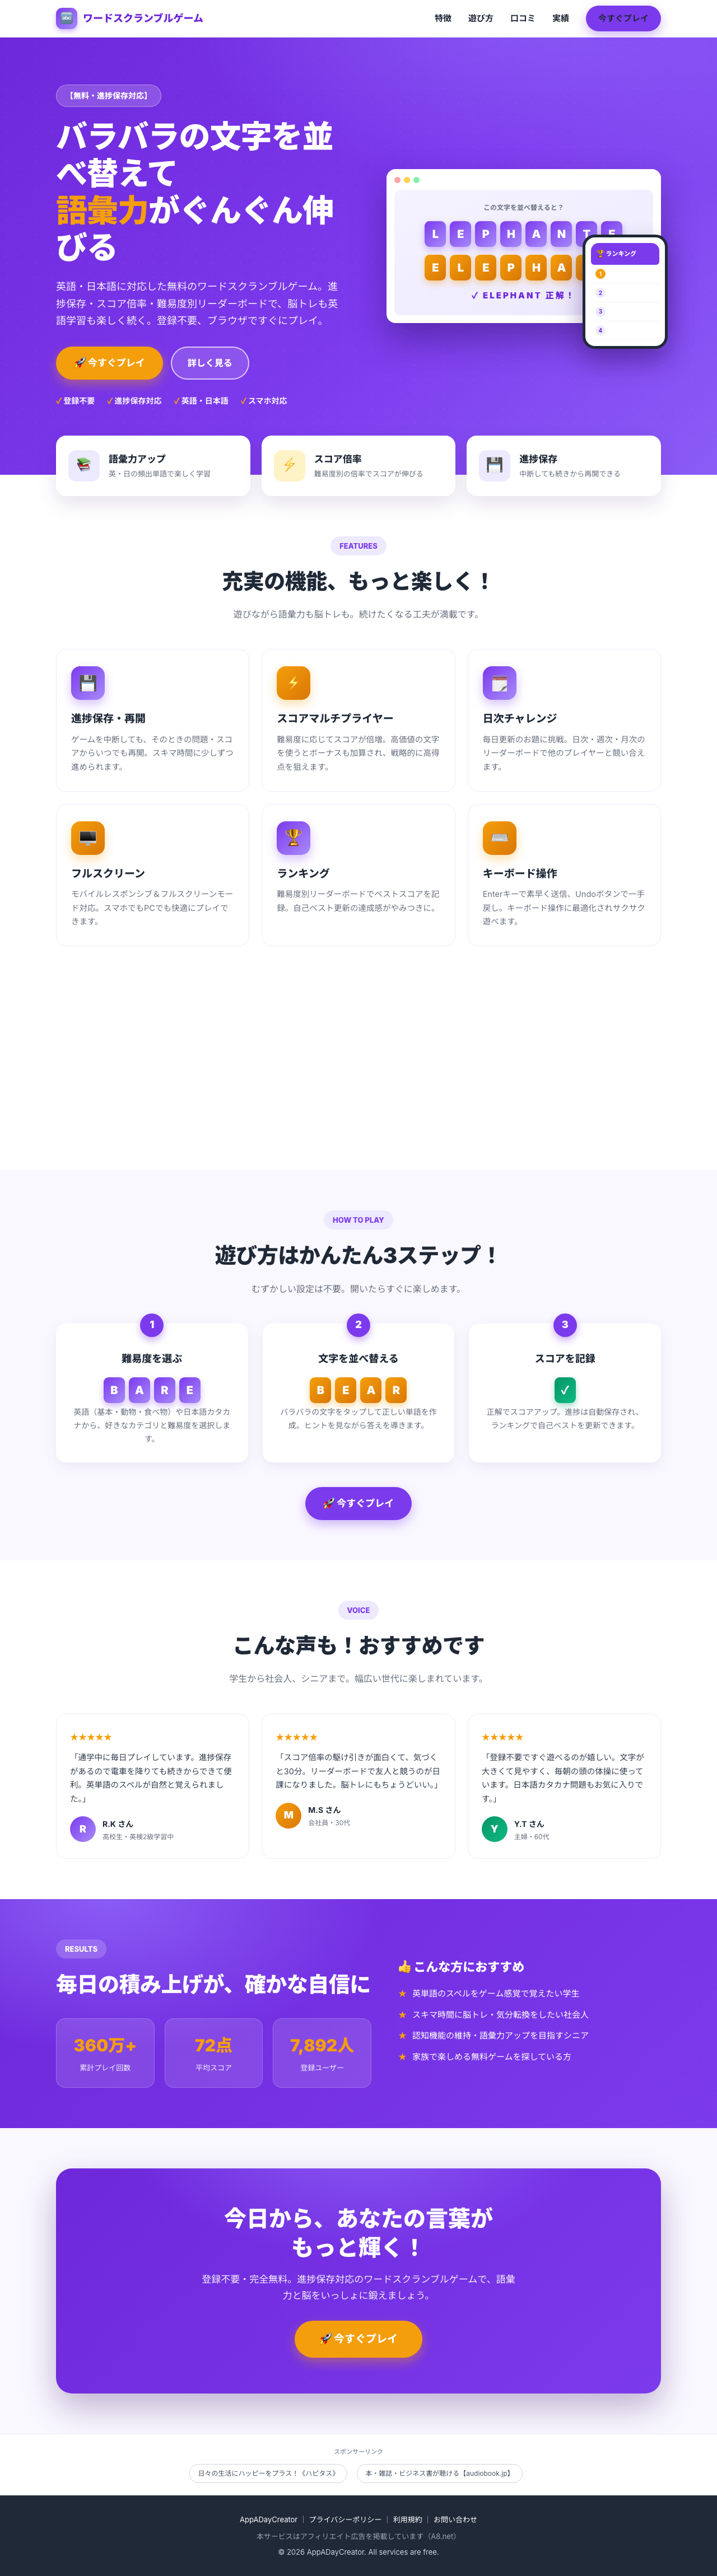
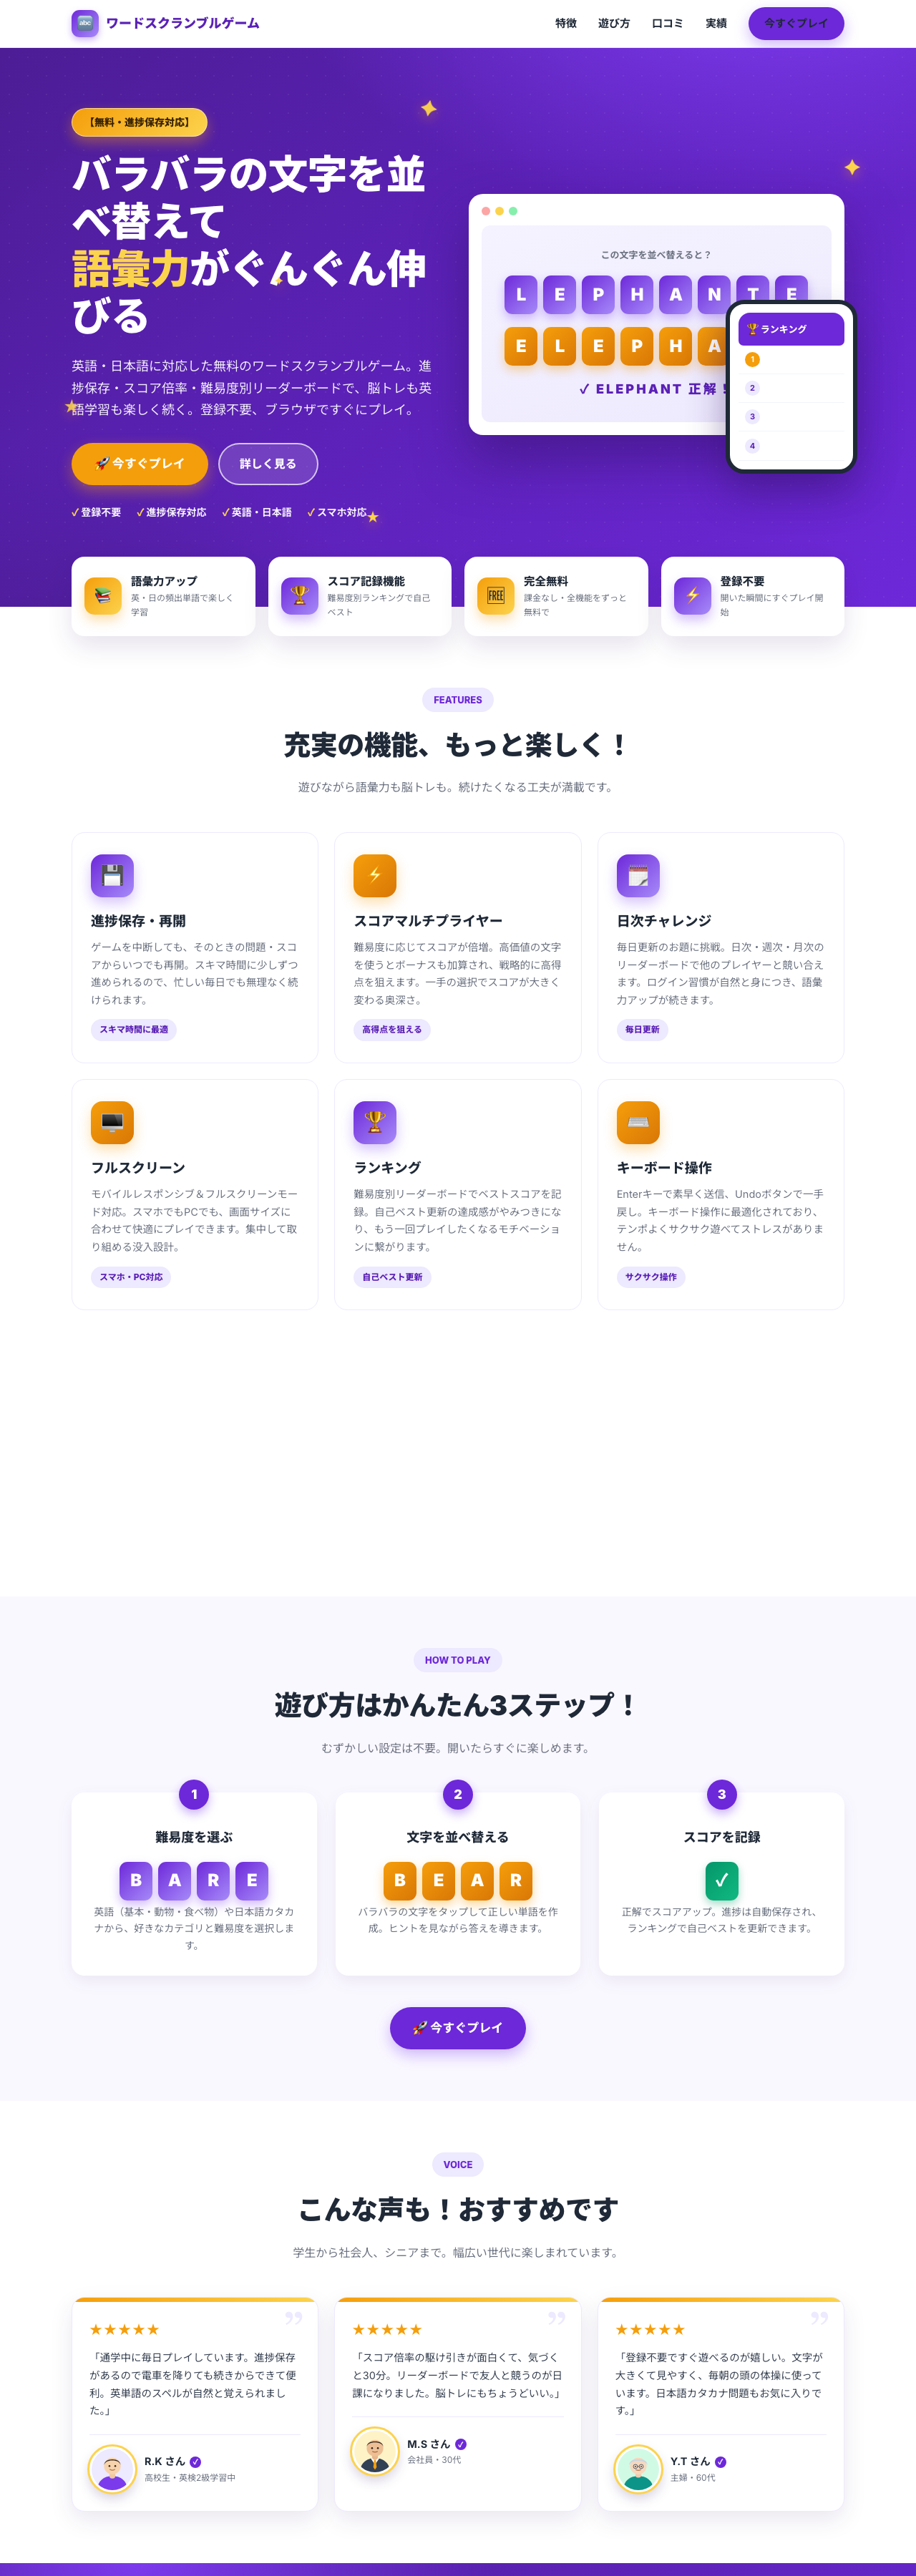
Refine: step7 compare-and-fix vs ChatGPT mockup

diff --git a/lp/index.html b/lp/index.html
@@ -34,8 +34,8 @@ j=d.createElement(s),dl=l!="dataLayer"?"&l="+l:"";j.async=true;j.src=
     <script async src="https://pagead2.googlesyndication.com/pagead/js/adsbygoogle.js?client=ca-pub-8427583028015858" crossorigin="anonymous"></script>
     <style>
       :root{
-        --primary:#7C3AED; --primary-d:#6D28D9; --primary-l:#A78BFA;
-        --accent:#F59E0B; --accent-d:#D97706;
+        --primary:#6D28D9; --primary-d:#5B21B6; --primary-l:#A78BFA;
+        --accent:#F59E0B; --accent-d:#D97706; --accent-bright:#FCD34D;
         --ink:#1f2937; --muted:#6b7280; --bg:#faf8ff; --line:#ede9fe;
       }
       *{margin:0;padding:0;box-sizing:border-box;}
@@ -67,16 +67,26 @@ j=d.createElement(s),dl=l!="dataLayer"?"&l="+l:"";j.async=true;j.src=
       @media(max-width:860px){.nav-links a:not(.btn){display:none;}}
 
       /* ── Hero ── */
-      .hero{position:relative;overflow:hidden;background:radial-gradient(1200px 600px at 80% -10%,#8b5cf6 0%,transparent 60%),linear-gradient(135deg,#6D28D9 0%,#7C3AED 55%,#8b5cf6 100%);color:#fff;padding:84px 0 120px;}
+      .hero{position:relative;overflow:hidden;background:radial-gradient(1100px 560px at 82% -12%,#7c3aed 0%,transparent 58%),radial-gradient(800px 500px at 5% 110%,#4c1d95 0%,transparent 60%),linear-gradient(135deg,#4c1d95 0%,#5B21B6 45%,#6D28D9 100%);color:#fff;padding:84px 0 120px;}
       .hero::before{content:"";position:absolute;inset:0;background-image:radial-gradient(rgba(255,255,255,.10) 1.5px,transparent 1.5px);background-size:26px 26px;opacity:.6;}
       .hero .wrap{position:relative;display:grid;grid-template-columns:1fr 1.02fr;gap:40px;align-items:center;}
-      .hero-badge{display:inline-block;background:rgba(255,255,255,.18);border:1px solid rgba(255,255,255,.35);font-weight:800;font-size:14px;padding:7px 16px;border-radius:999px;margin-bottom:20px;}
+      .hero-badge{display:inline-flex;align-items:center;gap:7px;background:linear-gradient(135deg,var(--accent),var(--accent-bright));color:#3b2400;border:1px solid rgba(255,255,255,.5);font-weight:900;font-size:14px;padding:7px 17px;border-radius:999px;margin-bottom:20px;box-shadow:0 8px 18px rgba(245,158,11,.4);}
       .hero h1{font-size:clamp(34px,5.2vw,56px);font-weight:900;line-height:1.18;letter-spacing:-1px;}
-      .hero h1 .hl{color:var(--accent);}
+      .hero h1 .hl{position:relative;color:var(--accent-bright);white-space:nowrap;}
+      .hero h1 .hl::after{content:"";position:absolute;left:-2px;right:-2px;bottom:4px;height:30%;background:rgba(252,211,77,.28);border-radius:4px;z-index:-1;}
+      /* scattered yellow sparkle decorations */
+      .spark{position:absolute;color:var(--accent-bright);filter:drop-shadow(0 4px 8px rgba(245,158,11,.5));pointer-events:none;z-index:1;animation:twinkle 3.5s ease-in-out infinite;}
+      .spark.s1{top:8%;left:46%;font-size:26px;animation-delay:0s;}
+      .spark.s2{top:62%;left:7%;font-size:20px;animation-delay:.6s;}
+      .spark.s3{top:18%;right:6%;font-size:30px;animation-delay:1.2s;}
+      .spark.s4{bottom:14%;left:40%;font-size:18px;animation-delay:1.8s;}
+      .spark.s5{top:40%;left:30%;font-size:15px;animation-delay:2.4s;}
+      @keyframes twinkle{0%,100%{transform:scale(1) rotate(0);opacity:.85;}50%{transform:scale(1.25) rotate(12deg);opacity:1;}}
+      @media(max-width:860px){.spark.s1,.spark.s5{display:none;}}
       .hero .lead{margin:22px 0 30px;font-size:18px;color:rgba(255,255,255,.92);max-width:520px;}
       .hero-cta{display:flex;gap:14px;flex-wrap:wrap;}
       .hero-ticks{display:flex;gap:22px;flex-wrap:wrap;margin-top:26px;font-size:14px;font-weight:600;color:rgba(255,255,255,.95);}
-      .hero-ticks span::before{content:"✓ ";color:var(--accent);font-weight:900;}
+      .hero-ticks span::before{content:"✓ ";color:var(--accent-bright);font-weight:900;}
 
       /* device mock */
       .mock{position:relative;}
@@ -103,7 +113,8 @@ j=d.createElement(s),dl=l!="dataLayer"?"&l="+l:"";j.async=true;j.src=
       .strip{margin-top:-70px;position:relative;z-index:5;}
       .strip .grid{display:grid;grid-template-columns:repeat(4,1fr);gap:18px;}
       .stat-card{background:#fff;border-radius:18px;padding:22px 18px;box-shadow:0 14px 36px rgba(49,16,99,.12);display:flex;align-items:center;gap:13px;}
-      .stat-card .ic{width:52px;height:52px;border-radius:14px;background:#fef3c7;display:flex;align-items:center;justify-content:center;font-size:26px;flex-shrink:0;box-shadow:0 6px 14px rgba(245,158,11,.18);}
+      .stat-card .ic{width:52px;height:52px;border-radius:14px;background:linear-gradient(135deg,var(--accent),var(--accent-bright));display:flex;align-items:center;justify-content:center;font-size:26px;flex-shrink:0;box-shadow:0 8px 16px rgba(245,158,11,.32);}
+      .stat-card:nth-child(2) .ic,.stat-card:nth-child(4) .ic{background:linear-gradient(135deg,var(--primary),var(--primary-l));box-shadow:0 8px 16px rgba(124,58,237,.32);}
       .stat-card h3{font-size:15.5px;font-weight:800;}
       .stat-card p{font-size:12px;color:var(--muted);}
       @media(max-width:920px){.strip .grid{grid-template-columns:repeat(2,1fr);}}
@@ -132,11 +143,14 @@ j=d.createElement(s),dl=l!="dataLayer"?"&l="+l:"";j.async=true;j.src=
 
       /* ── Testimonials ── */
       .tg{display:grid;grid-template-columns:repeat(3,1fr);gap:22px;}
-      .tcard{background:#fff;border:1px solid var(--line);border-radius:18px;padding:28px 24px;box-shadow:0 8px 26px rgba(49,16,99,.06);}
-      .tcard .stars{color:var(--accent);font-size:16px;margin-bottom:12px;letter-spacing:1px;}
-      .tcard .txt{font-size:14.5px;color:#374151;margin-bottom:20px;}
+      .tcard{position:relative;background:#fff;border:1px solid var(--line);border-radius:18px;padding:30px 24px 26px;box-shadow:0 12px 32px rgba(49,16,99,.1);overflow:hidden;transition:transform .18s,box-shadow .18s;}
+      .tcard::before{content:"";position:absolute;top:0;left:0;right:0;height:6px;background:linear-gradient(90deg,var(--accent),var(--accent-bright));}
+      .tcard:hover{transform:translateY(-5px);box-shadow:0 22px 46px rgba(49,16,99,.16);}
+      .tcard .qmark{position:absolute;top:14px;right:20px;font-size:54px;line-height:1;font-weight:900;color:var(--line);font-family:Georgia,serif;}
+      .tcard .stars{color:var(--accent);font-size:18px;margin-bottom:12px;letter-spacing:2px;}
+      .tcard .txt{font-size:14.5px;color:#374151;margin-bottom:20px;position:relative;}
       .tcard .who{display:flex;align-items:center;gap:13px;border-top:1px solid var(--line);padding-top:16px;}
-      .avatar{width:58px;height:58px;border-radius:50%;overflow:hidden;flex-shrink:0;box-shadow:0 6px 16px rgba(49,16,99,.18);border:3px solid #fff;outline:2px solid var(--line);}
+      .avatar{width:64px;height:64px;border-radius:50%;overflow:hidden;flex-shrink:0;box-shadow:0 8px 18px rgba(49,16,99,.22);border:3px solid #fff;outline:3px solid var(--accent-bright);}
       .avatar svg{width:100%;height:100%;display:block;}
       .tcard .who b{font-size:14.5px;display:flex;align-items:center;gap:6px;}
       .tcard .who b::after{content:"✓";font-size:10px;font-weight:900;color:#fff;background:var(--primary);width:16px;height:16px;border-radius:50%;display:inline-flex;align-items:center;justify-content:center;}
@@ -144,11 +158,11 @@ j=d.createElement(s),dl=l!="dataLayer"?"&l="+l:"";j.async=true;j.src=
       @media(max-width:860px){.tg{grid-template-columns:1fr;}}
 
       /* ── Numbers band ── */
-      .numbers{background:radial-gradient(900px 500px at 15% 0%,#8b5cf6 0%,transparent 55%),linear-gradient(135deg,#6D28D9,#7C3AED);color:#fff;}
+      .numbers{background:radial-gradient(900px 500px at 15% 0%,#7c3aed 0%,transparent 55%),linear-gradient(135deg,#4c1d95,#6D28D9);color:#fff;}
       .numbers .wrap{display:grid;grid-template-columns:1.2fr 1fr;gap:48px;align-items:center;}
       .num-grid{display:grid;grid-template-columns:repeat(3,1fr);gap:18px;}
       .num{background:linear-gradient(160deg,rgba(255,255,255,.18),rgba(255,255,255,.08));border:1px solid rgba(255,255,255,.28);border-radius:18px;padding:30px 16px;text-align:center;box-shadow:0 12px 30px rgba(20,4,55,.25);}
-      .num b{display:block;font-size:clamp(38px,5vw,52px);font-weight:900;color:var(--accent);line-height:1;letter-spacing:-1px;}
+      .num b{display:block;font-size:clamp(38px,5vw,52px);font-weight:900;color:var(--accent-bright);line-height:1;letter-spacing:-1px;text-shadow:0 4px 14px rgba(245,158,11,.35);}
       .num span{font-size:14px;font-weight:700;color:rgba(255,255,255,.92);margin-top:8px;display:block;}
       .reco h3{font-size:22px;font-weight:900;margin-bottom:16px;}
       .reco li{list-style:none;display:flex;gap:10px;align-items:flex-start;margin-bottom:12px;font-size:15px;}
@@ -157,7 +171,10 @@ j=d.createElement(s),dl=l!="dataLayer"?"&l="+l:"";j.async=true;j.src=
 
       /* ── Final CTA ── */
       .final{text-align:center;background:var(--bg);}
-      .final .box{background:radial-gradient(700px 400px at 50% -20%,#8b5cf6 0%,transparent 60%),linear-gradient(135deg,#6D28D9,#7C3AED);color:#fff;border-radius:28px;padding:64px 28px;box-shadow:0 24px 60px rgba(49,16,99,.3);}
+      .final .box{position:relative;overflow:hidden;background:radial-gradient(700px 400px at 50% -20%,#7c3aed 0%,transparent 60%),linear-gradient(135deg,#4c1d95,#6D28D9);color:#fff;border-radius:28px;padding:64px 28px;box-shadow:0 24px 60px rgba(49,16,99,.34);}
+      .final .box::before,.final .box::after{content:"✦";position:absolute;color:var(--accent-bright);opacity:.85;filter:drop-shadow(0 4px 8px rgba(245,158,11,.5));}
+      .final .box::before{top:24px;left:8%;font-size:26px;}
+      .final .box::after{bottom:26px;right:9%;font-size:32px;}
       .final h2{font-size:clamp(26px,4vw,40px);font-weight:900;line-height:1.3;}
       .final p{margin:16px auto 30px;font-size:17px;color:rgba(255,255,255,.92);max-width:560px;}
 
@@ -191,6 +208,7 @@ j=d.createElement(s),dl=l!="dataLayer"?"&l="+l:"";j.async=true;j.src=
 
 <!-- Hero -->
 <section class="hero">
+  <span class="spark s1">✦</span><span class="spark s2">★</span><span class="spark s3">✦</span><span class="spark s4">★</span><span class="spark s5">✦</span>
   <div class="wrap">
     <div>
       <span class="hero-badge">【無料・進捗保存対応】</span>
@@ -293,16 +311,19 @@ j=d.createElement(s),dl=l!="dataLayer"?"&l="+l:"";j.async=true;j.src=
     </div>
     <div class="tg">
       <div class="tcard">
+        <div class="qmark">”</div>
         <div class="stars">★★★★★</div>
         <p class="txt">「通学中に毎日プレイしています。進捗保存があるので電車を降りても続きからできて便利。英単語のスペルが自然と覚えられました。」</p>
         <div class="who"><div class="avatar"><svg viewBox="0 0 100 100" xmlns="http://www.w3.org/2000/svg" aria-hidden="true"><rect width="100" height="100" fill="#ede9fe"/><path d="M14 100 C14 76 32 66 50 66 C68 66 86 76 86 100 Z" fill="#7C3AED"/><rect x="43" y="54" width="14" height="18" rx="6" fill="#f1c8a0"/><circle cx="50" cy="42" r="20" fill="#f6d3ac"/><path d="M30 41 C30 24 70 24 70 41 C70 31 62 26 50 26 C38 26 30 31 30 41 Z" fill="#3b2a1d"/><circle cx="43" cy="42" r="2.2" fill="#3b2a1d"/><circle cx="57" cy="42" r="2.2" fill="#3b2a1d"/><path d="M44 50 Q50 54 56 50" stroke="#b5764a" stroke-width="2" fill="none" stroke-linecap="round"/></svg></div><div><b>R.K さん</b><span>高校生・英検2級学習中</span></div></div>
       </div>
       <div class="tcard">
+        <div class="qmark">”</div>
         <div class="stars">★★★★★</div>
         <p class="txt">「スコア倍率の駆け引きが面白くて、気づくと30分。リーダーボードで友人と競うのが日課になりました。脳トレにもちょうどいい。」</p>
         <div class="who"><div class="avatar"><svg viewBox="0 0 100 100" xmlns="http://www.w3.org/2000/svg" aria-hidden="true"><rect width="100" height="100" fill="#fef3c7"/><path d="M14 100 C14 76 32 66 50 66 C68 66 86 76 86 100 Z" fill="#334155"/><path d="M40 67 L50 82 L60 67 L54 64 L50 70 L46 64 Z" fill="#fff"/><path d="M48 70 L52 70 L54 88 L50 94 L46 88 Z" fill="#F59E0B"/><rect x="43" y="54" width="14" height="16" rx="6" fill="#e8b58a"/><circle cx="50" cy="42" r="20" fill="#edbf95"/><path d="M30 40 C30 24 70 24 70 40 C70 30 62 26 50 26 C38 26 30 30 30 40 Z" fill="#2b2118"/><circle cx="43" cy="42" r="2.2" fill="#2b2118"/><circle cx="57" cy="42" r="2.2" fill="#2b2118"/><path d="M44 50 Q50 53 56 50" stroke="#a9683f" stroke-width="2" fill="none" stroke-linecap="round"/></svg></div><div><b>M.S さん</b><span>会社員・30代</span></div></div>
       </div>
       <div class="tcard">
+        <div class="qmark">”</div>
         <div class="stars">★★★★★</div>
         <p class="txt">「登録不要ですぐ遊べるのが嬉しい。文字が大きくて見やすく、毎朝の頭の体操に使っています。日本語カタカナ問題もお気に入りです。」</p>
         <div class="who"><div class="avatar"><svg viewBox="0 0 100 100" xmlns="http://www.w3.org/2000/svg" aria-hidden="true"><rect width="100" height="100" fill="#d1fae5"/><path d="M14 100 C14 76 32 66 50 66 C68 66 86 76 86 100 Z" fill="#0d9488"/><rect x="43" y="54" width="14" height="16" rx="6" fill="#f1cdb0"/><circle cx="50" cy="42" r="20" fill="#f6d8bd"/><path d="M27 46 C24 24 76 24 73 46 C72 33 70 26 50 26 C30 26 28 33 27 46 Z" fill="#cbd5e1"/><circle cx="43" cy="43" r="5" fill="none" stroke="#475569" stroke-width="1.6"/><circle cx="57" cy="43" r="5" fill="none" stroke="#475569" stroke-width="1.6"/><path d="M48 43 H52" stroke="#475569" stroke-width="1.6"/><circle cx="43" cy="43" r="1.6" fill="#3b2a1d"/><circle cx="57" cy="43" r="1.6" fill="#3b2a1d"/><path d="M44 51 Q50 54 56 51" stroke="#b5764a" stroke-width="2" fill="none" stroke-linecap="round"/></svg></div><div><b>Y.T さん</b><span>主婦・60代</span></div></div>

diff --git a/index.html b/index.html
@@ -64,12 +64,13 @@ j=d.createElement(s),dl=l!="dataLayer"?"&l="+l:"";j.async=true;j.src=
         .top-nav .nlinks a:hover { color: #7C3AED; }
         .top-nav .nlinks .nav-cta { background: #7C3AED; color: #fff; padding: 8px 18px; border-radius: 999px; font-weight: 700; box-shadow: 0 4px 12px rgba(124,58,237,.3); }
         @media (max-width: 640px){ .top-nav .nlinks a:not(.nav-cta){ display:none; } }
-        .site-header { position: relative; overflow: hidden; background: radial-gradient(900px 400px at 85% -20%,#8b5cf6 0%,transparent 60%), linear-gradient(135deg,#6D28D9 0%,#7C3AED 60%,#8b5cf6 100%); color: white; padding: 56px 20px; text-align: center; }
+        .site-header { position: relative; overflow: hidden; background: radial-gradient(900px 400px at 85% -20%,#7c3aed 0%,transparent 58%), radial-gradient(700px 420px at 0% 120%,#4c1d95 0%,transparent 60%), linear-gradient(135deg,#4c1d95 0%,#5B21B6 45%,#6D28D9 100%); color: white; padding: 56px 20px; text-align: center; }
+        .site-header::after { content:"✦ ★ ✦"; position:absolute; top:18px; right:22px; font-size:22px; letter-spacing:14px; color:#FCD34D; opacity:.85; filter:drop-shadow(0 4px 8px rgba(245,158,11,.45)); }
         .site-header::before { content:""; position:absolute; inset:0; background-image: radial-gradient(rgba(255,255,255,.10) 1.5px, transparent 1.5px); background-size: 24px 24px; opacity:.55; }
         .site-header > * { position: relative; }
         .site-header .emoji { font-size: 56px; margin-bottom: 8px; }
         .site-header h1 { font-size: 30px; font-weight: 900; margin-bottom: 10px; letter-spacing: -.5px; }
-        .site-header .badge-free { display:inline-block; background: #F59E0B; color:#fff; font-weight:800; font-size:13px; padding:5px 14px; border-radius:999px; margin-bottom:14px; box-shadow:0 6px 14px rgba(245,158,11,.4); }
+        .site-header .badge-free { display:inline-block; background: linear-gradient(135deg,#F59E0B,#FCD34D); color:#3b2400; font-weight:900; font-size:13px; padding:6px 16px; border-radius:999px; margin-bottom:14px; box-shadow:0 8px 18px rgba(245,158,11,.45); border:1px solid rgba(255,255,255,.5); }
         .site-header p { font-size: 15px; opacity: 0.95; max-width: 560px; margin: 0 auto; }
         .hero-cta-primary { background:#F59E0B !important; color:#fff !important; box-shadow:0 6px 16px rgba(245,158,11,.45) !important; }
         .container { max-width: 800px; margin: 0 auto; padding: 16px; }